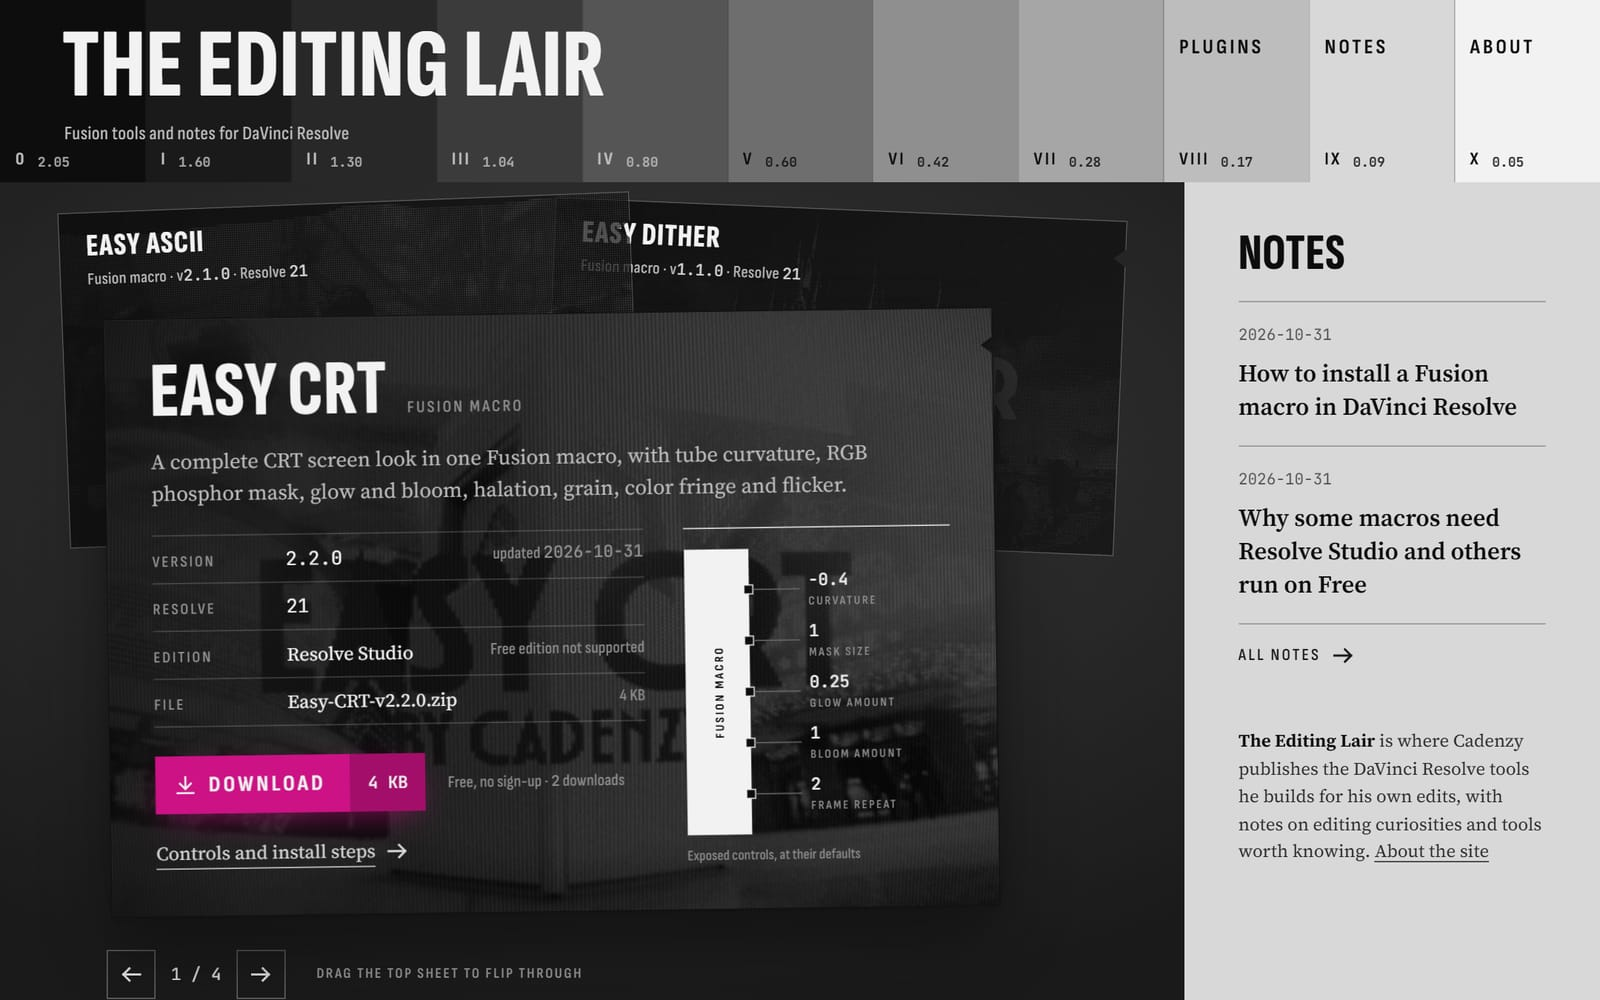
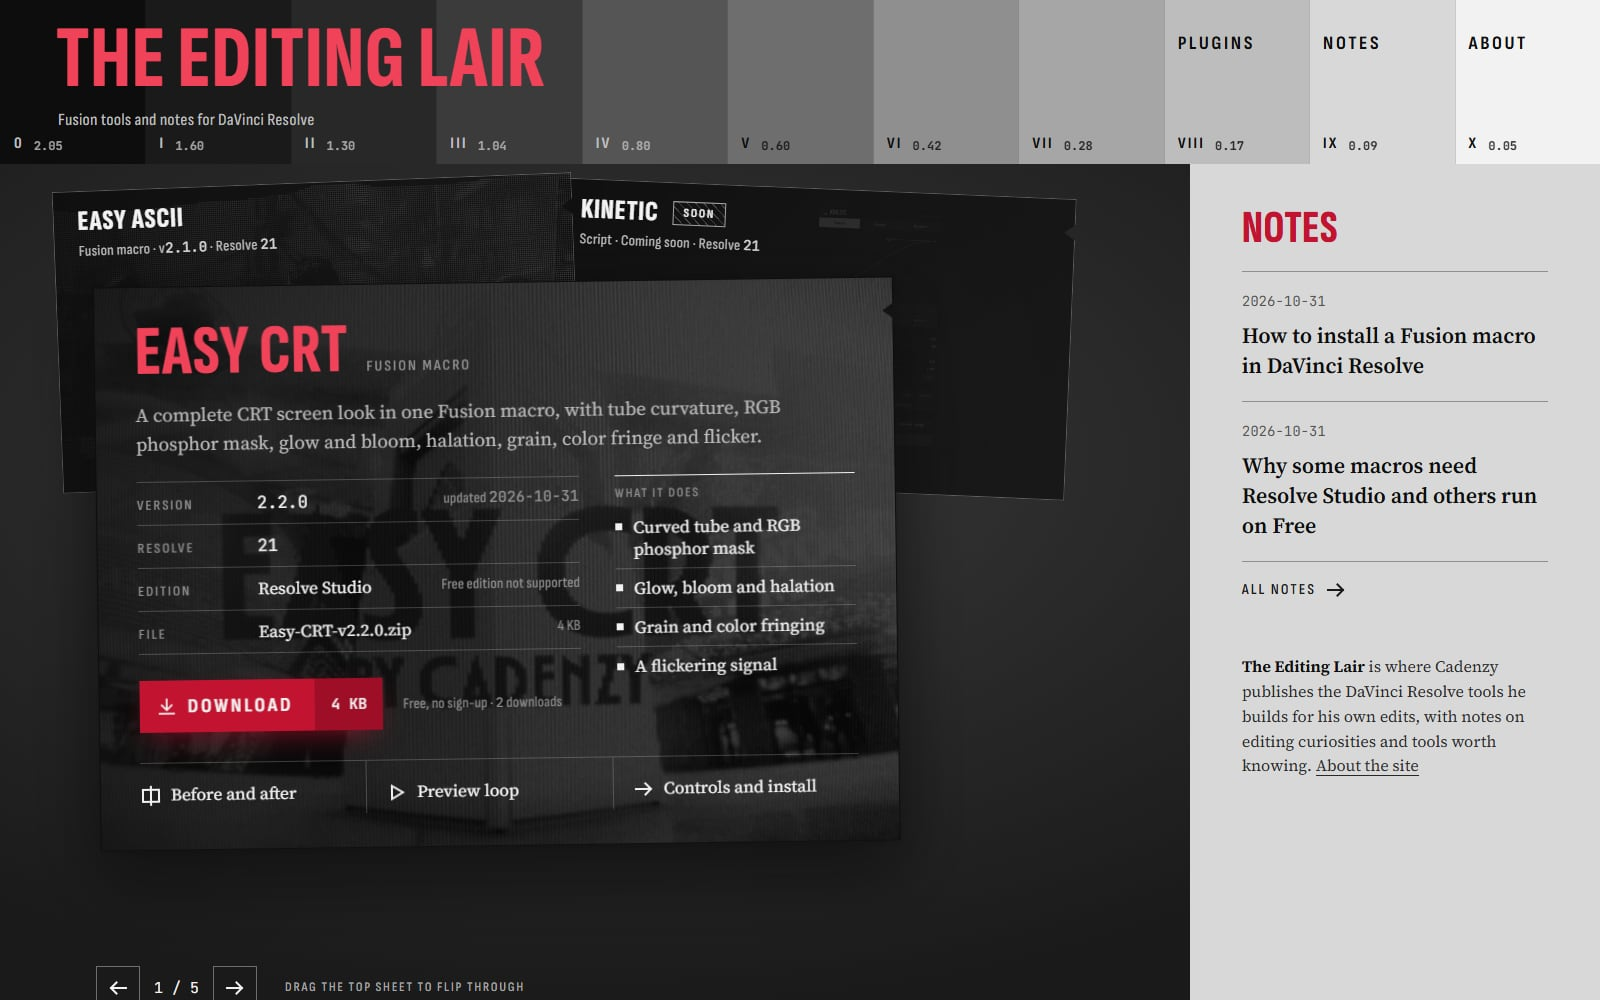
Bring the README up to date with Kinetic and the red
Adds Kinetic to the plugin table as coming soon, documents the `soon`
access kind and how to announce a tool before it ships, describes the
shared Crimson accent, and replaces the screenshots with the current site,
plus one of the coming-soon page.

diff --git a/README.md b/README.md
@@ -4,7 +4,7 @@ A small static site where I publish the DaVinci Resolve tools I build for my own
 
 **Live site:** https://matheusfrazatto.github.io/TheEditingLair/
 
-![The Editing Lair home page: a draggable pile of plugin sheets on a dark light table, with the Easy CRT sheet on top](.github/readme/home.jpg)
+![The Editing Lair home page: the red site name over a step-wedge masthead, and a draggable pile of plugin sheets on a dark light table, with Easy CRT on top and Kinetic marked as coming soon behind it](.github/readme/home.jpg)
 
 ## Why it exists
 
@@ -22,6 +22,7 @@ I work in tech, so the site is also a deliberate exercise: a content-driven site
 | [Easy ASCII](https://matheusfrazatto.github.io/TheEditingLair/plugins/easy-ascii/) | Rebuilds footage out of text characters, with 13 character sets and 15 palettes | Free and Studio |
 | [Easy Dither](https://matheusfrazatto.github.io/TheEditingLair/plugins/easy-dither/) | Ordered dithering with six procedural patterns and duotone presets | Free and Studio |
 | [Easy Bit](https://matheusfrazatto.github.io/TheEditingLair/plugins/easy-bit/) | Pixel art with crisp blocks and CGA, Game Boy, NES and PICO-8 palettes | Free and Studio |
+| [Kinetic](https://matheusfrazatto.github.io/TheEditingLair/plugins/kinetic/) *(coming soon)* | A script for easing Fusion keyframes: draggable bezier handles, easing presets, elastic springs and real bounces | Free and Studio (tested in Studio so far) |
 
 The plugins are free to use in any project, personal or commercial. Please do not sell them or share the files themselves; link to the plugin page instead. Found a problem or have an idea? [Open an issue](https://github.com/MatheusFrazatto/TheEditingLair/issues/new/choose).
 
@@ -49,7 +50,12 @@ There is no UI framework and no client-side router. Pages are plain HTML and CSS
 
 ## Engineering highlights
 
-**Content is data.** A plugin is one Markdown file. Its frontmatter is checked against a schema at build time: version, Resolve version, edition, OS list, a short feature list, cover image, changelog. A typo fails the build instead of shipping a broken page. Access is a discriminated union: a free plugin points to a file, while a paid one must point to an external store, so the site can never host a paid file or handle payments.
+**Content is data.** A plugin is one Markdown file. Its frontmatter is checked against a schema at build time: version, Resolve version, edition, OS list, a short feature list, cover image, changelog. A typo fails the build instead of shipping a broken page. Access is a discriminated union with three kinds:
+- a free plugin points to a file;
+- a paid one must point to an external store, so the site can never host a paid file or handle payments;
+- a coming-soon one has no file, version or release date yet, and the schema only allows those to be missing for that kind.
+
+**Announced before it ships.** A coming-soon tool gets a real page, a place at the back of the pile and a row in the plugins table, marked with a hatched "soon" stamp instead of a download. It stays out of everything that would promise a release: the release counts, the RSS feeds and Updates page, the Easy Complete bundle and the schema.org offer. Flipping it to free or paid makes it a normal release.
 
 **Works under a sub-path.** GitHub Pages serves the site from `/TheEditingLair/`. The workflow reads the origin and base path from `actions/configure-pages` and passes them to Astro, and every internal link goes through one `withBase()` helper. The same build also works at a domain root.
 
@@ -78,7 +84,11 @@ There is no UI framework and no client-side router. Pages are plain HTML and CSS
 
 **Accessibility basics.** Skip link, visible focus states, semantic landmarks, ARIA table roles on the plugin table, and alt text on every cover.
 
-![A plugin page: title, summary, a facts table with version, Resolve version, edition, systems and file, and a magenta download button](.github/readme/plugin-page.jpg)
+**One red, shared with the products.** The interface is grayscale, built from the eleven zones of a photographic step wedge, plus a single red. The red is the same Crimson as the tools' own identity (Kinetic's included), so the site and what it ships look like one family. A CSS variable sets the red for each surface: the bright red on dark ground and a deeper red on light paper, so text and focus rings keep their contrast on both. The site name in the masthead is sized to end over the darker zones, where the bright red still reads.
+
+![A plugin page: the red title, summary, a facts table with version, Resolve version, edition, systems, file and license, and a red download button with a download count](.github/readme/plugin-page.jpg)
+
+![A coming-soon page: Kinetic's title, a facts table that reads "In development, not released", a hatched Coming soon stamp in place of the download, and the script's window as the cover](.github/readme/kinetic-soon.jpg)
 
 ## Project structure
 
@@ -90,7 +100,7 @@ src/
   content.config.ts content schemas
   components/       sheet pile, plugin table, facts table, download button, masthead
   layouts/          base page layout
-  pages/            home, plugins, notes, about, RSS, 404
+  pages/            home, plugins, notes, about, updates, RSS, 404
   scripts/          intro and page motion
   lib/              base-path links, content queries, formatting
   styles/           design tokens and global styles
@@ -131,6 +141,8 @@ SITE_URL=https://matheusfrazatto.github.io BASE_PATH=/TheEditingLair npm run bui
 7. Run `npm run check`, then push to `main`. GitHub Actions builds and deploys the site.
 
 Setting `draft: true` keeps a plugin or note visible in the dev server only.
+
+To announce a tool before it ships, create its Markdown file with `access: { kind: soon }` and leave out `version`, `released` and the download. A cover is enough; `compatibility.note` can say what has been tested so far. Skip `npm run release` until it is out. When it ships, switch `access` to free or paid, add the version and release date, and follow the steps above.
 
 ## License
 
